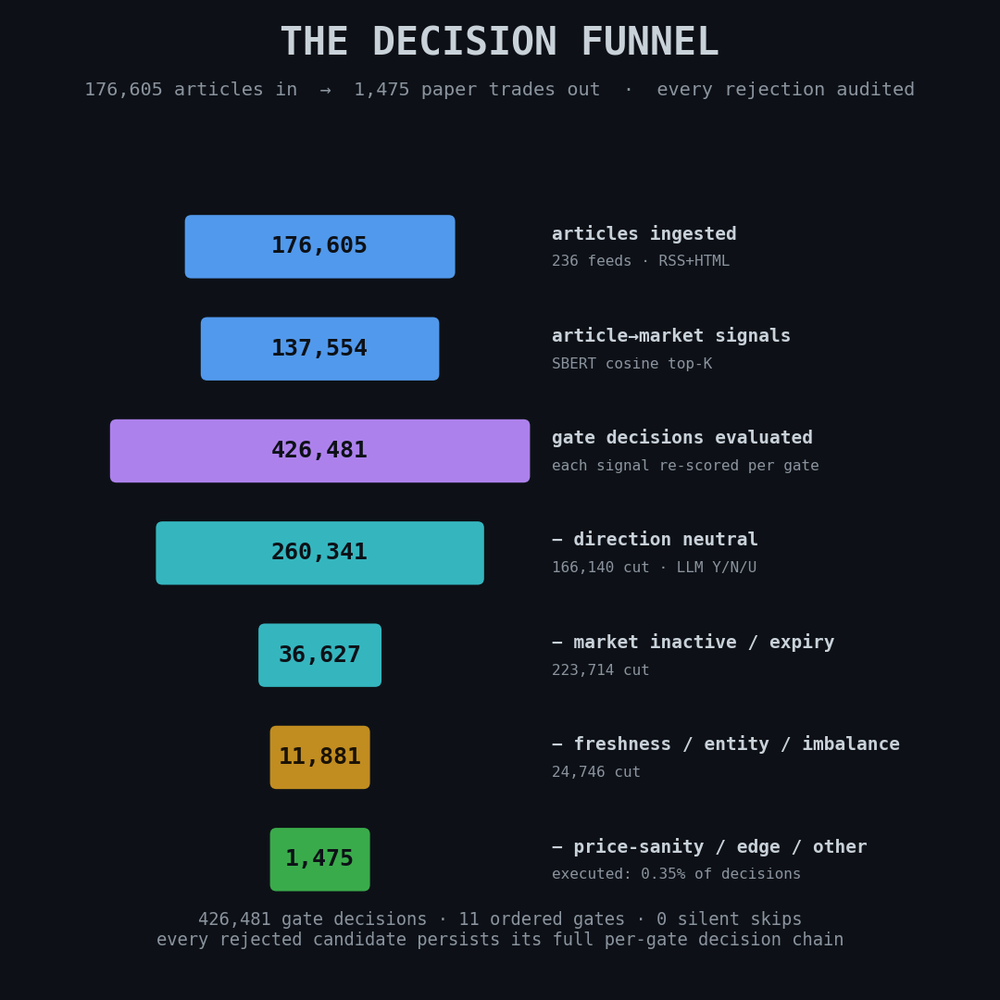
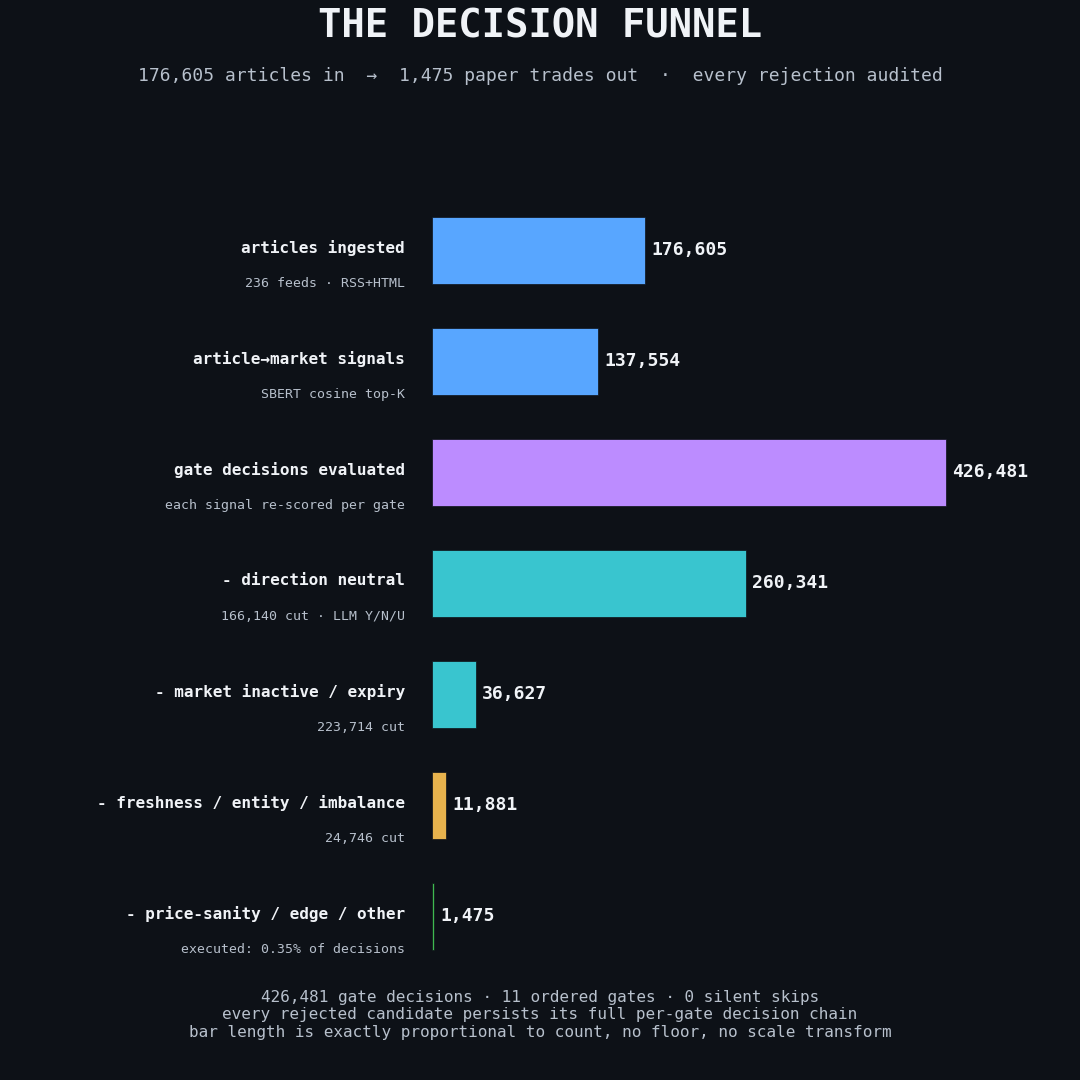
readme: restore architecture as text, redraw funnel to true linear scale

diff --git a/reports/linkedin-reel/make_readme_funnel.py b/reports/linkedin-reel/make_readme_funnel.py
@@ -1,0 +1,117 @@
+#!/usr/bin/env python3
+"""True-to-scale decision funnel for the repo README (docs/images/decision-funnel.png).
+
+The prior version (and the first LinkedIn-deck revamp) used a sqrt-mapped bar
+width with a hardcoded minimum, so the three smallest stages rendered at
+nearly identical widths despite spanning a >100x range. This version plots
+every bar on a plain linear scale, exactly proportional to its count, with no
+floor and no transform. The smallest stages render as slivers on purpose:
+that's the actual point of a funnel this steep. Value labels sit outside each
+bar so a bar can shrink arbitrarily thin without losing its number.
+
+Uses the README's own current figures (176,605 articles in / 1,475 trades
+out), not the live-DB LinkedIn-deck snapshot -- keep these two in sync only
+if the README's numbers are refreshed at the same time.
+"""
+import os
+import numpy as np
+import matplotlib
+matplotlib.use("Agg")
+matplotlib.rcParams["text.parse_math"] = False
+import matplotlib.pyplot as plt
+
+HERE = os.path.dirname(os.path.abspath(__file__))
+OUT = os.path.join(os.path.dirname(os.path.dirname(HERE)), "docs", "images",
+                    "decision-funnel.png")
+
+BG = "#0d1117"
+FG = "#f0f3f7"
+DIM = "#b7c0cc"
+BLUE = "#58a6ff"
+PURPLE = "#bc8cff"
+CYAN = "#39c5cf"
+AMBER = "#e8b34d"
+GREEN = "#3fb950"
+BORDER = "#30363d"
+MONO = "DejaVu Sans Mono"
+PX = 1080
+DPI = 100
+
+
+def style_axes(ax):
+    ax.set_facecolor(BG)
+    for s in ax.spines.values():
+        s.set_color(BORDER)
+    ax.spines["top"].set_visible(False)
+    ax.spines["right"].set_visible(False)
+    ax.tick_params(colors=DIM, labelsize=14)
+
+
+def main():
+    levels = [
+        ("articles ingested",               176605, BLUE,   "236 feeds · RSS+HTML"),
+        ("article→market signals",          137554, BLUE,   "SBERT cosine top-K"),
+        ("gate decisions evaluated",        426481, PURPLE, "each signal re-scored per gate"),
+        ("- direction neutral",             260341, CYAN,   "166,140 cut · LLM Y/N/U"),
+        ("- market inactive / expiry",       36627, CYAN,   "223,714 cut"),
+        ("- freshness / entity / imbalance", 11881, AMBER,  "24,746 cut"),
+        ("- price-sanity / edge / other",     1475, GREEN,  "executed: 0.35% of decisions"),
+    ]
+    labels = [l[0] for l in levels]
+    cnts = np.array([l[1] for l in levels], dtype=float)
+    cols = [l[2] for l in levels]
+    subs = [l[3] for l in levels]
+
+    fig = plt.figure(figsize=(PX / DPI, PX / DPI), dpi=DPI)
+    fig.patch.set_facecolor(BG)
+    fig.text(0.5, 0.965, "THE DECISION FUNNEL", fontsize=28, fontfamily=MONO,
+              color=FG, ha="center", fontweight="bold")
+    fig.text(0.5, 0.925, "176,605 articles in  →  1,475 paper trades out  ·  every "
+              "rejection audited", fontsize=13, fontfamily=MONO, color=DIM,
+              ha="center")
+
+    ax = fig.add_axes([0.40, 0.09, 0.50, 0.74])
+    style_axes(ax)
+    for s in ax.spines.values():
+        s.set_visible(False)
+    ax.set_yticks([])
+    ax.tick_params(left=False, bottom=False, labelbottom=False, labelleft=False)
+
+    n = len(levels)
+    y = np.arange(n)[::-1]
+
+    # plain linear scale: bar length is exactly proportional to count, no
+    # transform, no minimum-width floor. The smallest bars are meant to look
+    # tiny -- that IS the finding.
+    ax.set_xlim(0, cnts.max() * 1.05)
+    bars = ax.barh(y, cnts, height=0.6, color=cols, edgecolor=BG,
+                    linewidth=0.5, zorder=3)
+
+    ax.set_ylim(-0.6, n - 0.4)
+    yaxis_t = ax.get_yaxis_transform()
+    for yi, lab, sub in zip(y, labels, subs):
+        ax.text(-0.05, yi + 0.02, lab, fontsize=11.5, fontfamily=MONO, color=FG,
+                ha="right", va="center", fontweight="bold", zorder=4,
+                transform=yaxis_t)
+        ax.text(-0.05, yi - 0.30, sub, fontsize=9.5, fontfamily=MONO, color=DIM,
+                ha="right", va="center", zorder=4, transform=yaxis_t)
+
+    for b, c in zip(bars, cnts):
+        x_end = b.get_width() + cnts.max() * 0.012
+        ax.text(x_end, b.get_y() + b.get_height() / 2, f"{int(c):,}",
+                fontsize=13, fontfamily=MONO, color=FG, ha="left", va="center",
+                fontweight="bold", zorder=4)
+
+    fig.text(0.5, 0.04,
+              "426,481 gate decisions · 11 ordered gates · 0 silent skips\n"
+              "every rejected candidate persists its full per-gate decision chain\n"
+              "bar length is exactly proportional to count, no floor, no scale transform",
+              fontsize=11.5, fontfamily=MONO, color=DIM, ha="center")
+
+    fig.savefig(OUT, dpi=DPI, facecolor=BG)
+    plt.close(fig)
+    print("wrote", OUT)
+
+
+if __name__ == "__main__":
+    main()

diff --git a/README.md b/README.md
@@ -10,7 +10,7 @@ discipline, more than any single number, is the product here, and most of
 this repository exists to show the work behind it.
 
 The full writeup, with the metric breakdown, the calibration charts, and the
-architecture diagram, lives at
+component-by-component architecture, lives at
 [muk.systems/projects/nexus](https://muk.systems/projects/nexus).
 
 ![Dynamic Knowledge Graph](docs/images/dkg-graph.png)
@@ -38,13 +38,29 @@ gates.
 They ran side by side on purpose. seulgi is the working baseline the newer
 approach had to beat.
 
-irene runs on one async pub/sub bus, strict JSON payloads between stages, and
-a rule that no gate may ever skip silently. Every rejected candidate writes a
-row explaining which gate stopped it and why. That rule is the reason the
-analysis further down was possible at all.
+## Architecture
 
-Storage is a single SQLite database in WAL mode, 34 tables, currently about
-6.8 GB. The dashboard renders 15 pages from 10 plot modules against that same
+irene is built as seven pieces wired together, each with one job:
+
+- **Ingestion**: a FastAPI scraper service pulling RSS, HTML, and sitemaps
+  into the pipeline.
+- **Bus**: one in-process async pub/sub bus wiring 17 stages together with
+  strict JSON payloads between them, and a rule that no gate may ever skip
+  silently. Every rejected candidate writes a row explaining which gate
+  stopped it and why; that rule is the reason the analysis further down was
+  possible at all.
+- **Market data**: a sharded WebSocket pool tracking roughly 18,000 live
+  Polymarket subscriptions.
+- **Knowledge graph**: dedup and entity linking across news, entities, and
+  markets, on Chroma and SQLite.
+- **Decision engine**: a configurable gate pipeline (`market_open`,
+  `dkg_threshold`, `llm_batch`, and more) with a full audit trail.
+- **Data layer**: a single SQLite database in WAL mode, 34 tables, atomic
+  batch writes, currently about 6.8 GB.
+- **Verification**: tracer injection plus a capture/replay regression suite
+  run against production images.
+
+The dashboard renders 15 pages from 10 plot modules against that same
 database.
 
 ## What the funnel looks like
@@ -200,9 +216,10 @@ Everything above is rendered from the live database, not drawn by hand. The
 PNGs in `docs/images/` are downscaled copies of the full-resolution output.
 
 ```bash
-python3 reports/linkedin-reel/make_dkg_graph.py   # the knowledge graph
-python3 reports/linkedin-reel/regen_panels.py     # live dashboard panels
-python3 reports/linkedin-reel/make_reel.py        # funnel, architecture, findings
+python3 reports/linkedin-reel/make_dkg_graph.py       # the knowledge graph
+python3 reports/linkedin-reel/regen_panels.py         # live dashboard panels
+python3 reports/linkedin-reel/make_readme_funnel.py   # the decision funnel
+python3 reports/linkedin-reel/make_reel.py            # remaining findings panels
 ```
 
 These need a populated `irene/data/irene.db`, which is not in the repository
